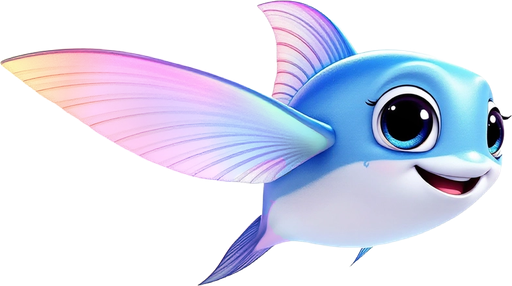
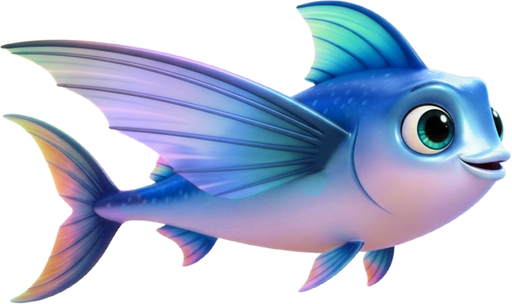
Playtest round: Flitzi's kind face back, wings fold like a fan and trail under water; manta wings bend from attached roots; tails beat; Sharky drives with his tail; the near rock is sharp
- Flitzi: the old friendlier picture again (rounder face, kind eye, a real fish's forked tail),
  richer in colour; under water the wing lays back along the body and closes across its width
  (fold.narrow) instead of shrinking, in the air it spreads.
- Manta: the beat is a bend growing from root to tip (wave 0.5) with only a little turn of the
  whole wing, so the roots stay on the body.
- Tails: a visible beat in the picture (the bend grows toward the tip, the root stays put).
- Sharky: a strong tail drive, the rear body following in a wave (wiggle 64).
- Near rock layer: baked finer (376 texels per chunk) and not softened; the far one stays soft.

diff --git a/game/rig/cards.js b/game/rig/cards.js
@@ -48,21 +48,22 @@ export const CARDS = {
  *            tails and skirts lie beyond the body and swing both ways.
  */
 export const ROLES = {
-    tail:      { swing: 0.38, sweep: 0.04, wave: 0.1, k: 2.2, speed: 1, idle: 0.04 },
+    tail:      { swing: 0.38, sweep: 0.06, wave: 0.26, k: 2.2, speed: 1, idle: 0.04 },      // a visible beat in the picture: the bend (wave) grows toward the tip, the root stays put
     median:    { swing: 0.12, sweep: 0.03, wave: 0.07, k: 2.6, speed: 1, idle: 0.15 },
     pectoral:  { swing: 0.55, sweep: 0.08, wave: 0.06, k: 2.0, speed: 1.15, idle: 0.25, outward: true },
     // fold: the wing is painted spread; folded (m.fold 1, under water) it turns `angle` of the way
-    // back along the body and shrinks by `shrink` toward its root, spreading again in the air.
-    wing:      { swing: 0.12, sweep: 0.03, wave: 0.03, k: 1.6, speed: 0.55, idle: 0, outward: true, fold: { angle: 0.85, shrink: 0.5 } },
+    // back along the body, closes across its width like a fan (`narrow`) and only a little in length
+    // (`shrink`), trailing along the body; in the air it spreads again (user: not just rescaled).
+    wing:      { swing: 0.12, sweep: 0.03, wave: 0.03, k: 1.6, speed: 0.55, idle: 0, outward: true, fold: { angle: 0.95, shrink: 0.12, narrow: 0.62 } },
     flipper:   { swing: 0.35, sweep: 0.28, wave: 0.06, k: 1.8, speed: 0.55, idle: 0.08, outward: true },
     head:      { swing: 0.015, sweep: 0.008, wave: 0, k: 0, speed: 0.3, idle: 0.15 },   // steady (user: "less wobbly head")
     fan:       { swing: 0.05, sweep: 0.02, wave: 0.06, k: 3.0, speed: 0.9, idle: 0.25 },
     tentacles: { swing: 0.05, sweep: 0.03, wave: 0.14, k: 3.4, speed: 0.9, idle: 0.5 },
     curl:      { swing: 0.03, sweep: 0.04, wave: 0.1, k: 2.0, speed: 0.7, idle: 0.3 },
-    // Ray wings seen from the side beat up and down in the picture plane (sweep), bending from root to
-    // tip so the tips lag (wave); a manta glides at a steady effort, so most of the beat stays when idle
-    // (user: the manta glides stiffly; about 0.4 Hz at its effort).
-    flap:      { swing: 0.12, sweep: 0.34, wave: 0.26, k: 1.1, speed: 0.32, idle: 0.85 }
+    // Ray wings seen from the side beat up and down in the picture plane. The beat is a bend that grows
+    // from root to tip (wave; the tips lag) with only a little turn of the whole wing (sweep), so the
+    // root stays attached to the body (user: no gap at the wing roots); about 0.4 Hz at a manta's effort.
+    flap:      { swing: 0.1, sweep: 0.08, wave: 0.5, k: 1.0, speed: 0.32, idle: 0.85 }
 };
 
 /** Triangle strip over a (cols x rows)-cell grid (rows joined by degenerate triangles): node index per strip vertex. */
@@ -139,6 +140,27 @@ function foldTurn(card) {
     return card.foldTo;
 }
 
+/** The unit direction from a card's pivot to its middle (cached): the axis a folding wing closes across. */
+function mainDir(card) {
+    if (card.dir === undefined) {
+        let cx = 0, cy = 0;
+        for (let i = 0; i < card.n; i++) { cx += card.lx[i]; cy += card.ly[i]; }
+        const l = Math.hypot(cx, cy) || 1;
+        card.dir = [cx / l, cy / l];
+    }
+    return card.dir;
+}
+
+/** A folded point: closed across the card's main direction (q.nw), shortened along it (q.fl), then turned (q.fa); writes [x, y] into o. */
+function foldPoint(card, lx, ly, q, o) {
+    if (!q.nw && q.fl === 1 && !q.fa) { o[0] = lx; o[1] = ly; return o; }
+    const [dx, dy] = mainDir(card), u = (lx * dx + ly * dy) * q.fl, v = (-lx * dy + ly * dx) * (1 - q.nw);
+    const x = u * dx - v * dy, y = u * dy + v * dx, c = Math.cos(q.fa), sn = Math.sin(q.fa);
+    o[0] = x * c - y * sn; o[1] = x * sn + y * c;
+    return o;
+}
+const FP = [0, 0];
+
 /** Rotate (x, y, z) about the unit axis (ax, ay, 0) by angle a; writes into o. */
 function aboutAxis(x, y, z, ax, ay, a, o) {
     const c = Math.cos(a), s = Math.sin(a), d = (ax * x + ay * y) * (1 - c);
@@ -155,14 +177,14 @@ const P = [0, 0, 0], N = [0, 0, 0];
  * at: [x, y] where its pivot is now (the body's bend carries it); mirror: the far twin.
  */
 export function posePart(card, part, m, at, mirror, out, turn = 0) {
-    const q = motion(card, part, m, MOTION), { R, effort, ph, swing, fc, fsn } = q, [ax, ay] = part.axis;
+    const q = motion(card, part, m, MOTION), { R, effort, ph, swing } = q, [ax, ay] = part.axis;
     for (let i = 0; i < card.n; i++) {
         const t = card.t[i];
         // Fold first (in the picture plane, about the root), then swing about the hinge (depth
         // comes only from it, so it stays on its side), then stroke and undulation in the plane
         // (plus `turn`: the in-plane angle of the part it hangs on, see carryPoint).
-        const lx = card.lx[i] * fc - card.ly[i] * fsn, ly = card.lx[i] * fsn + card.ly[i] * fc;
-        aboutAxis(lx, ly, 0, ax, ay, swing, P);
+        foldPoint(card, card.lx[i], card.ly[i], q, FP);
+        aboutAxis(FP[0], FP[1], 0, ax, ay, swing, P);
         aboutAxis(0, 0, 1, ax, ay, swing, N);
         const a = q.sweep + turn + R.wave * effort * Math.sin(ph - R.k * t) * t;
         const ca = Math.cos(a), sa = Math.sin(a);
@@ -182,11 +204,11 @@ function motion(card, part, m, o) {
     const effort = (R.idle + (1 - R.idle) * m.drive) * part.amp;
     const ph = m.phase * R.speed + part.phase * Math.PI * 2;
     const beat = Math.sin(ph + 0.6);
-    const f = R.fold && m.fold ? m.fold : 0, fa = f ? R.fold.angle * f * foldTurn(card) : 0, fs = 1 - (f ? R.fold.shrink * f : 0);
+    const f = R.fold && m.fold ? m.fold : 0;
+    o.fa = f ? R.fold.angle * f * foldTurn(card) : 0; o.fl = 1 - (f ? R.fold.shrink * f : 0); o.nw = f ? (R.fold.narrow || 0) * f : 0;
     o.R = R; o.effort = effort; o.ph = ph;
     o.swing = R.swing * effort * (R.outward ? (0.5 + 0.5 * beat) * outwardSign(card, part) : beat);
     o.sweep = R.sweep * effort * Math.sin(ph);
-    o.fc = Math.cos(fa) * fs; o.fsn = Math.sin(fa) * fs;
     return o;
 }
 
@@ -197,7 +219,8 @@ function motion(card, part, m, o) {
  */
 export function carryPoint(card, part, m, at, lx, ly, turn, o) {
     const q = motion(card, part, m, MOTION), [ax, ay] = part.axis;
-    aboutAxis(lx * q.fc - ly * q.fsn, lx * q.fsn + ly * q.fc, 0, ax, ay, q.swing, P);
+    foldPoint(card, lx, ly, q, FP);
+    aboutAxis(FP[0], FP[1], 0, ax, ay, q.swing, P);
     const a = q.sweep + turn + q.R.wave * q.effort * Math.sin(q.ph - q.R.k);
     const ca = Math.cos(a), sa = Math.sin(a);
     o.x = at[0] + P[0] * ca - P[1] * sa; o.y = at[1] + P[0] * sa + P[1] * ca; o.a = a;

diff --git a/game/level/rockLayerTable.js b/game/level/rockLayerTable.js
@@ -30,8 +30,9 @@ export const ROCK_LAYERS = [
     // socket: closed share in front of an island at least (its rocky underwater base: no far
     // view right in front of an island, spec 5.0c); it eases off into the open sea.
     // trenchWall: this layer carries the trench wall behind the descent (TRENCH_WALL).
+    // rockSize / sharp: the near layer is baked finer and not softened (user: the near rock read smeared; the far ones may stay soft).
     { id: 'mid', s: 0.6, seed: 101, share: 1, swing: 0.32, scale: 1100, fog: 0.38, dark: 0.8, depth: -9.5, socket: 0.85, trenchWall: true },
-    { id: 'near', s: 0.82, seed: 202, share: 0.55, open: -0.08, swing: 0.36, scale: 1300, fog: 0.24, dark: 0.86, depth: -7, clearRoute: true }
+    { id: 'near', s: 0.82, seed: 202, share: 0.55, open: -0.08, swing: 0.36, scale: 1300, fog: 0.24, dark: 0.86, depth: -7, clearRoute: true, rockSize: 376, sharp: true }
 ];
 
 /** Layer chunk size (layer px) and its shading: coarse (soft), no sand, low contrast, unlit rims. */
@@ -390,7 +391,7 @@ export function fogLayer(rgba, size, ox, oy, span, layer, deepTint = SHADE.deepT
         const k = skin.k[q] * LIP.afterFog;
         if (k > 0) for (let c = 0; c < 3; c++) rgba[q * 4 + c] += (skin.rgb[q * 3 + c] - rgba[q * 4 + c]) * k;
     }
-    softenLayer(rgba, size);
+    if (!layer.sharp) softenLayer(rgba, size);
     trenchSpecks(rgba, size, ox, oy, span);
     return rgba;
 }
@@ -461,9 +462,12 @@ export function dropLooseRock(rgba, size, cfg = LOOSE_ROCK) {
     return rgba;
 }
 
-/** One layer chunk's picture (RGBA, LAYER_SHADE.rockSize squared), baked with LAYER_MARGIN. */
+/** A layer's picture size (texels per side): its own rockSize (the near layer is baked finer), else LAYER_SHADE's. */
+export const layerSize = layer => layer.rockSize || LAYER_SHADE.rockSize;
+
+/** One layer chunk's picture (RGBA, layerSize squared), baked with LAYER_MARGIN. */
 export function layerPicture(field, seed, layer, cx, cy, M = LAYER_MARGIN) {
-    const S = LAYER_SHADE.rockSize, B = S + 2 * M, { ox, oy, span } = layerChunkRect(layer, cx, cy), step = span / S;
+    const S = layerSize(layer), B = S + 2 * M, { ox, oy, span } = layerChunkRect(layer, cx, cy), step = span / S;
     const bx = ox - M * step, by = oy - M * step, bspan = span * B / S;
     const { rock } = shadeChunk(field, seed, bx, by, bspan, { ...LAYER_SHADE, rockSize: B, grainAt: [cx * S - M, cy * S - M] });
     fogLayer(rock, B, bx, by, bspan, layer);

diff --git a/game/characters.js b/game/characters.js
@@ -30,7 +30,7 @@ export const CHARACTERS = [
         id: 'shark', name: 'Sharky', blurb: { de: 'Schnell, träge in der Kurve · Sprint, bis zu 5-mal tippen', en: 'Fast, wide turns · sprint, tap up to 5 times' },
         special: 'sprint', thrust: 1.15, maxSpeed: 1.25, drag: 0.85, turn: 0.55, soft: 0.3,
         fright: 2.2,   // a fish-eater: small fish keep this much more distance and never let him in (boids.js)
-        states: one('player_shark', 250, 62, 34)
+        states: one('player_shark', 250, 62, 64)      // wiggle: a shark drives with its tail, the rear body following in a strong wave
     },
     {
         id: 'flyingfish', name: 'Flitzi', blurb: { de: 'Segelt weit über das Wasser · Sprung', en: 'Glides far above the water · leap' },

diff --git a/game/level/RockLayers.js b/game/level/RockLayers.js
@@ -1,4 +1,4 @@
-import { ROCK_LAYERS, LAYER_CHUNK, LAYER_SHADE } from './rockLayerTable.js';
+import { ROCK_LAYERS, LAYER_CHUNK, layerSize } from './rockLayerTable.js';
 import { materialTiles } from './materials.js';
 import { mix } from './layerMath.js';
 import { LEVEL } from './LevelGenerator.js';
@@ -63,7 +63,7 @@ export default class RockLayers {
     }
 
     show(def, r) {
-        const scene = this.scene, L = LAYER_CHUNK, S = LAYER_SHADE.rockSize;
+        const scene = this.scene, L = LAYER_CHUNK, S = layerSize(def);
         const [cx, cy] = r.key.split(',').map(Number);
         const key = `rl:${def.id}:${r.key}`;
         if (scene.textures.exists(key)) scene.textures.remove(key);
